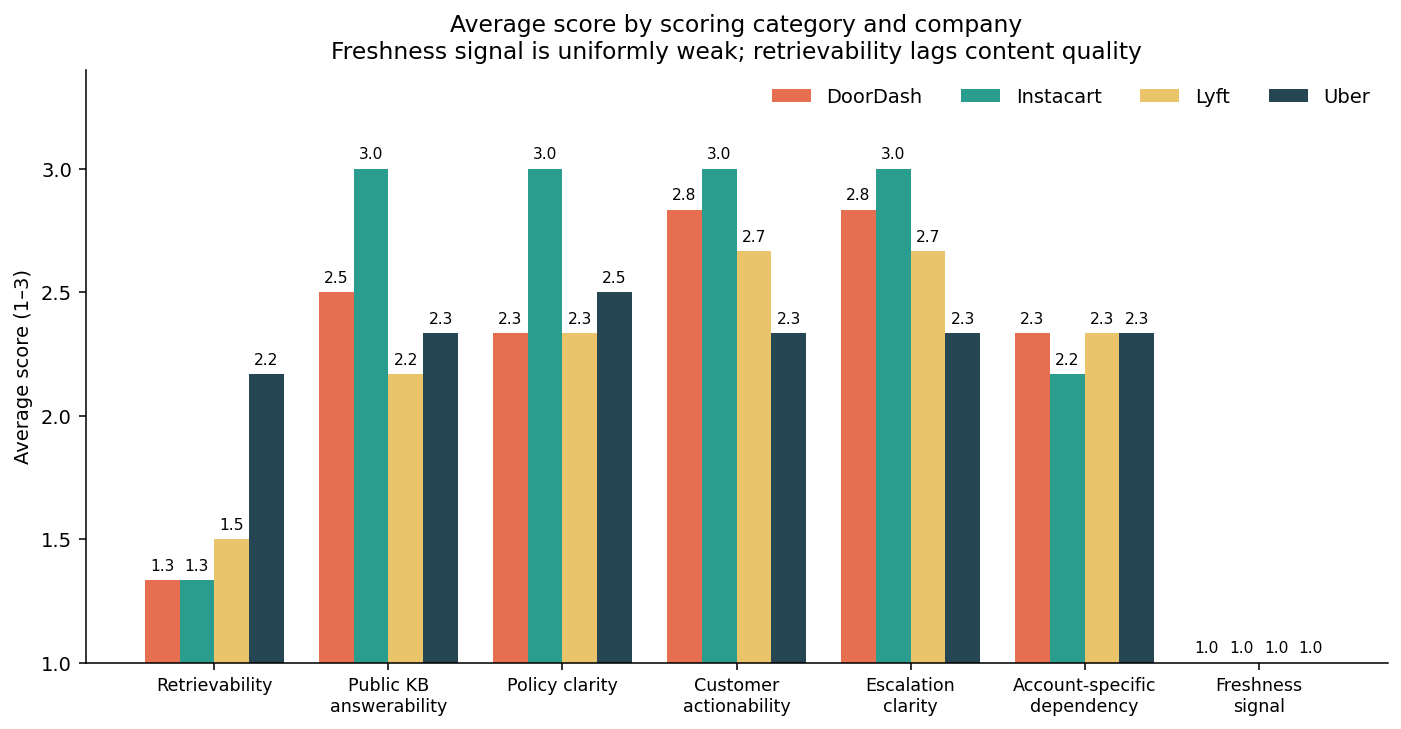
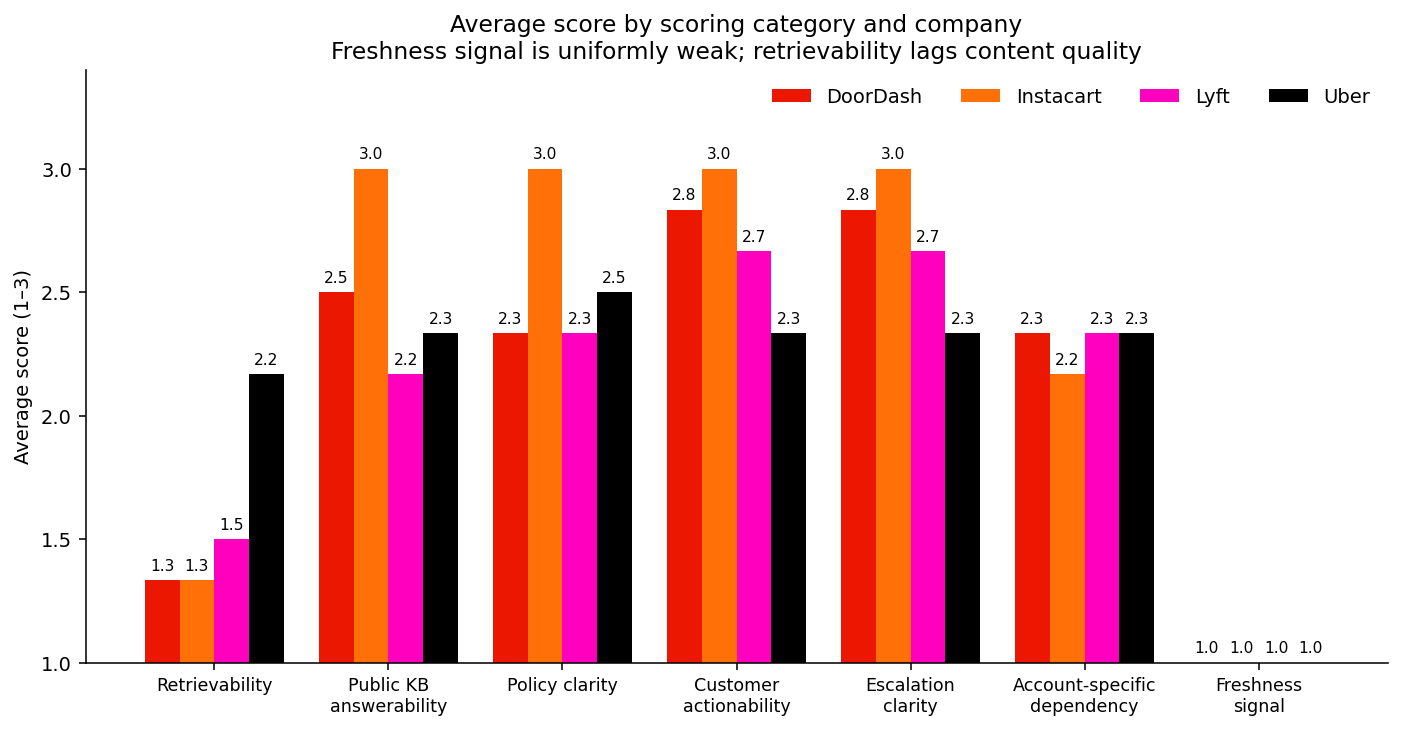
plot colors to match brand colors

diff --git a/scripts/generate_visuals.py b/scripts/generate_visuals.py
@@ -108,8 +108,8 @@ def plot_category_scores_by_company():
     grouped = df.groupby("company")[cols].mean().sort_index()
 
     companies = grouped.index.tolist()
-    colors = {"DoorDash": "#e76f51", "Instacart": "#2a9d8f",
-              "Lyft": "#e9c46a", "Uber": "#264653"}
+    colors = {"DoorDash": "#eb1700", "Instacart": "#FF7009",
+              "Lyft": "#FF00BF", "Uber": "#000000"}
     n = len(companies)
     width = 0.8 / n
     x = range(len(labels))
